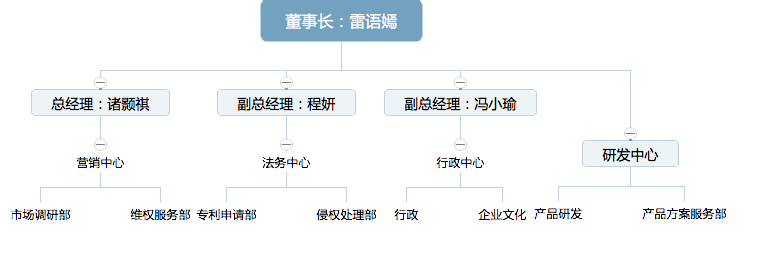
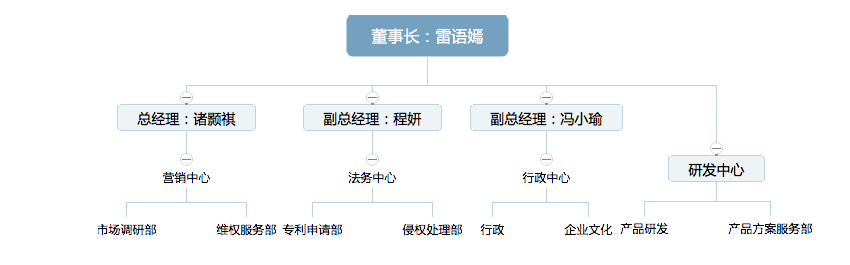
add text

diff --git a/index.html b/index.html
@@ -44,6 +44,29 @@
 			<div id="features-wrapper">
 				<section id="features" class="container">
 					<header>
+						<h2><strong>产品概述</strong></h2>
+					</header>
+					<div class="row">
+						<div class="6u 12u(mobile)">
+							<img style="width: 100%"src="images/graph1.png" alt=""/>
+						</div>
+						<div class="6u 12u(mobile)">
+							<p style="text-indent:2em;">
+								本实用新型是一种蝶型电聚合物水阀，由椭圆形外环、薄膜、导电层以及电线组成，该水阀能完全覆盖水管的投影圆面。
+							</p>
+							<p style="text-indent:2em;">
+								椭圆形外环在经过立体结构塑性后变成了蝴蝶型，弯曲后的投影面积在未加电压情况下可以完全覆盖整个水管的投影圆面，达到止住水管得效果，在电压逐步上升的过程中，水阀可平稳张开，最终达到外侧面贴住水管的内壁，完成给水工作。
+							</p>
+						</div>
+					</div>
+				</section>
+			</div>
+			<div id="line">
+				<hr>
+			</div>			
+			<div id="features-wrapper">
+				<section id="features" class="container">
+					<header>
 						<h2><strong>产品特性</strong></h2>
 					</header>
 					<div class="row">
@@ -156,7 +179,7 @@
 					<h2><strong>组织架构</strong></h2>
 					<section id="banner" class="container">
 						<div class="row">
-							<div class="12u"><img src="images/framework.png" alt=""></div>
+							<div class="12u" style="text-align: center" ><img style="width: 100%; text-align: center" src="images/framework.png" alt=""></div>
 						</div>
 					</section>
 				</div>

diff --git a/assets/css/main.css b/assets/css/main.css
@@ -1070,6 +1070,7 @@
 
 	body {
 		font-family: Tahoma, Arial, Helvetica, "Microsoft YaHei New", "Microsoft Yahei", "微软雅黑", 宋体, SimSun, STXihei, "华文细黑", sans-serif;
+		font-weight: 400;
 		color: #777;
 	}
 
@@ -1581,7 +1582,7 @@
 	}
 
 		#features-wrapper p {
-			font-size: 14px;
+			font-size: 18px;
 			letter-spacing: 0.2em;
     		line-height: 250%;
 		}
@@ -1785,7 +1786,7 @@
 	}
 
 	#copyright li{
-		font-size: 14px;
+		font-size: 18px;
 		letter-spacing: 0.2em;
     	line-height: 250%;
 	}
@@ -1798,7 +1799,7 @@
 
 			body, input, textarea, select {
 				line-height: 1.65em;
-				font-size: 13pt;
+				font-size: 16pt;
 			}
 
 			h2 {
@@ -1996,7 +1997,7 @@
 
 			#banner p {
 				text-align: left;
-				font-size: 14px;
+				font-size: 16px;
 				letter-spacing: 0.2em;
     			line-height: 250%;
 				padding: 0 10px 0 10px;
@@ -2049,12 +2050,12 @@
 			body {
 				min-width: 960px;
 				line-height: 1.75em;
-				font-size: 12pt;
+				font-size: 16pt;
 			}
 
 			input, textarea, select {
 				line-height: 1.75em;
-				font-size: 12pt;
+				font-size: 16pt;
 			}
 
 			h2 {
@@ -2282,7 +2283,7 @@
 						box-shadow: 0.125em 0.125em 0 0 rgba(0, 0, 0, 0.15);
 						text-align: center;
 						line-height: 40px;
-						font-size: 18px;
+						font-size: 20px;
 						color: #aaa;
 					}
 
